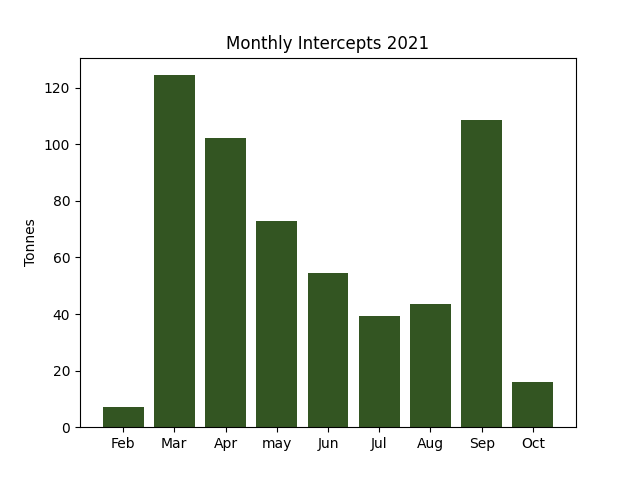
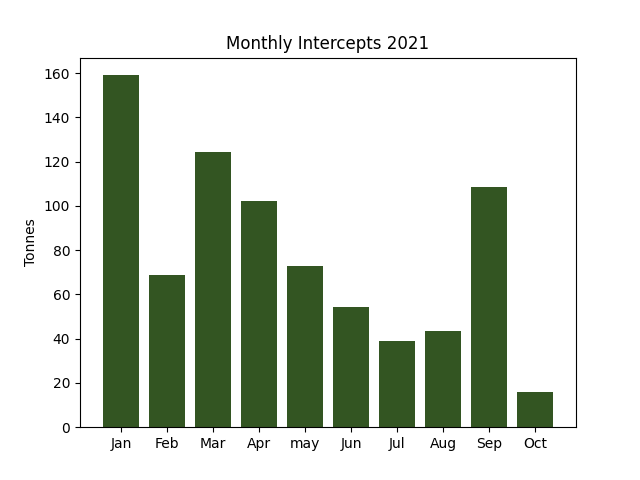
add historic to main

diff --git a/main.py b/main.py
@@ -1,25 +1,33 @@
 import pandas as pd
 import matplotlib.pyplot as plt
 
+file_names = ['Intercept_2021.csv', 'Intercept-KPI-Historic-21']
+
 def main():
-    df = pd.read_csv("./data/Intercept_2021.csv")
+    df = fetch_all_data()
     df["Date Intercepted"] = pd.to_datetime(df["Date Intercepted"], dayfirst=True)
-    grams = df.groupby(df['Date Intercepted'].dt.month)['Weight (in grams)'].sum()
-    result = [g / 1_000_000 for g in grams]
-    n_months = grams.index.tolist()
-    months = month_list(n_months)
+    monthly_totals = df.groupby(df['Date Intercepted'].dt.month)['Weight (in grams)'].sum()
+    month_list = get_months_from_data(monthly_totals)
+    plot_year(monthly_totals, month_list)
 
-    plt.bar(months, result, color='#335522')
+def fetch_all_data():
+    df_live = pd.read_csv('./data/Intercept_2021.csv')
+    df_historic = pd.read_csv("./data/Intercept-KPI-Historic-21.csv")
+    return pd.concat([df_live, df_historic])
 
+def get_months_from_data(data):
+    return month_list_names(data.index.tolist())
+
+def plot_year(data, months):
+    plt.bar(months, data / 1_000_000, color='#335522')
     plt.ylabel("Tonnes")
     plt.title("Monthly Intercepts 2021")
     plt.savefig('year.png')
     plt.show()
 
-def month_list(month_nums):
+def month_list_names(month_nums):
     months= { 1: "Jan",2: "Feb",3: "Mar",4: "Apr",5: "may",6: "Jun",7: "Jul",8: "Aug",9: "Sep",10: "Oct",11: "Nov",12: "Dec"}
     return [months[num] for num in month_nums]
     
-
 if __name__ == "__main__":
     main()
